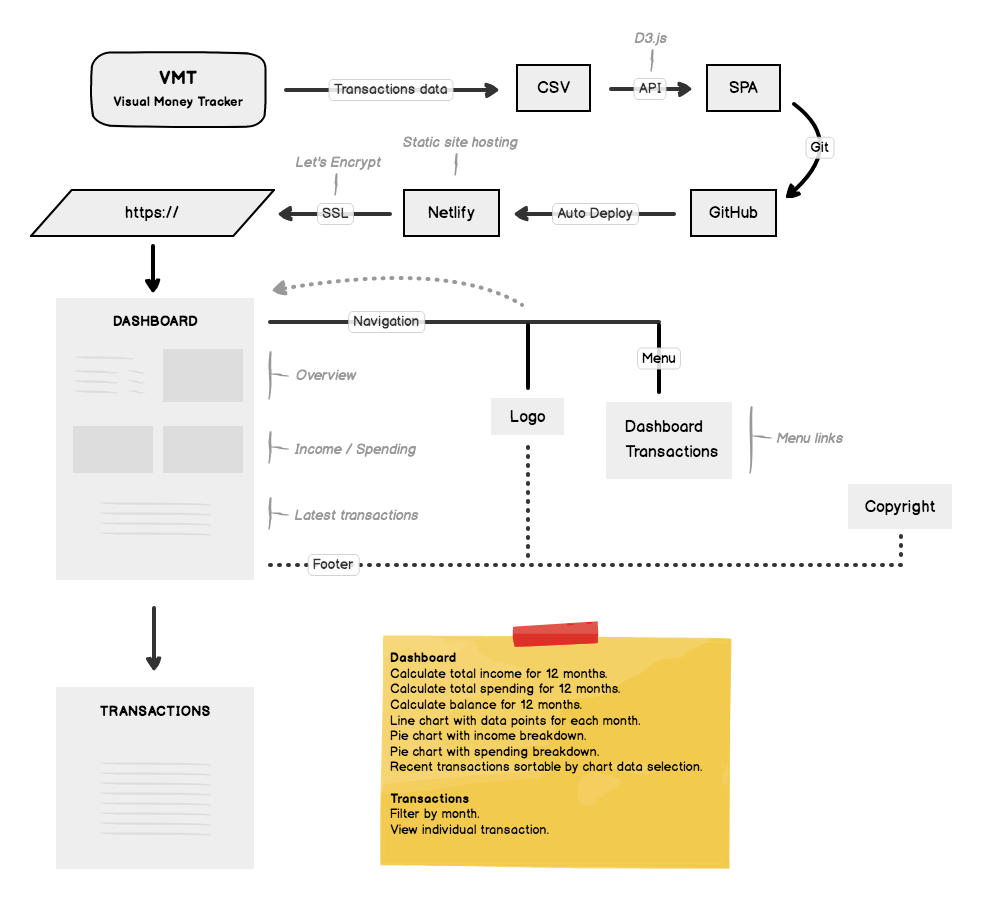
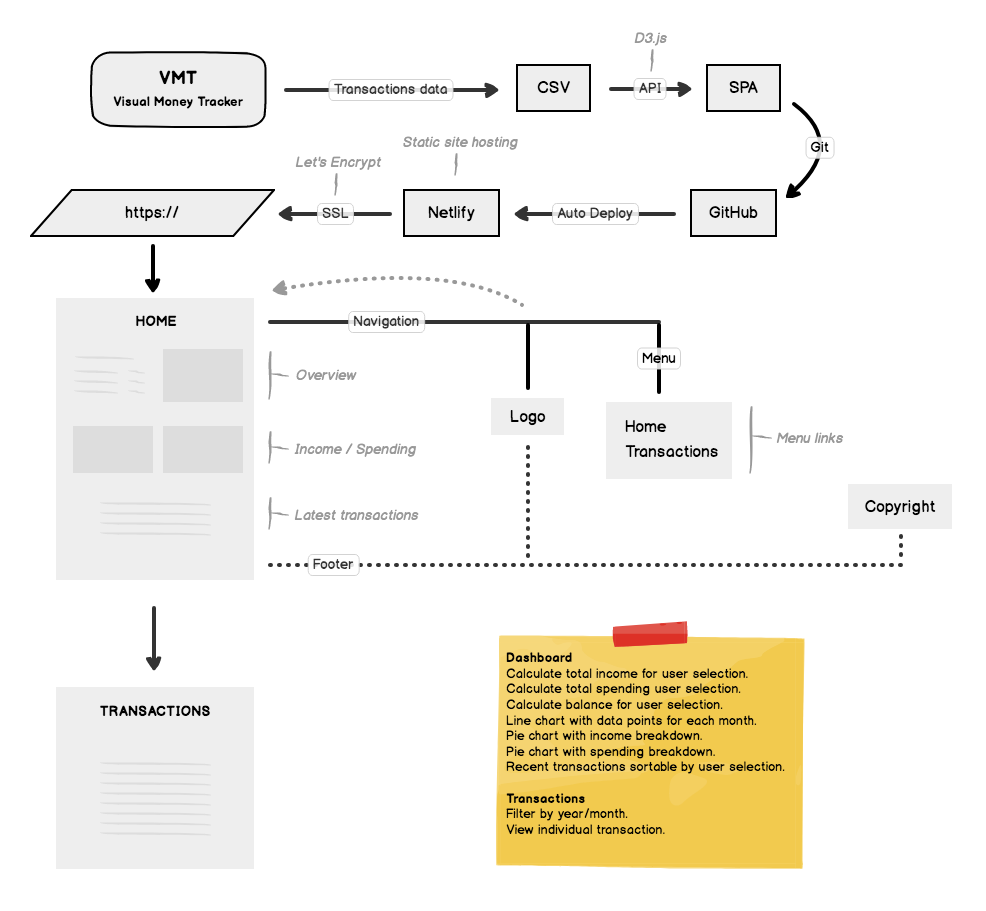
update wireframes with extra user stories

Changed region(s): [[0.3651, 0.6762, 0.8215, 0.9528], [0.1217, 0.3381, 0.213, 0.3688], [0.6389, 0.461, 0.6998, 0.4918]]

diff --git a/README.md b/README.md
@@ -27,7 +27,7 @@ To learn more about the needs of the user, please read the [Project Brief](ux/Pr
 
 **_(1) - "As a user, I want to navigate around the app, so that, I can access the sections I need."_**
 
-- As a user, I want to navigate to main page, so that, I can see the dashboard.
+- As a user, I want to navigate to main page, so that, I can see the home page.
   - [x] Add logo with hyperlink to home page.
   - [x] Add menu hyperlink to home page.
 - As a user, I want to navigate to transactions page, so that, I can see the list of transactions.
@@ -49,8 +49,8 @@ To learn more about the needs of the user, please read the [Project Brief](ux/Pr
   - [x] Output value in Euros.
 - As a user, I want to see my balance, so that, I can see how much I have.
   - [x] Add item name.
-  - [ ] Calculate 12 months balance and output value in euros.
-  - [ ] Output value in Euros.
+  - [x] Calculate 12 months balance and output value in euros.
+  - [x] Output value in Euros.
 
 ---
 
@@ -66,10 +66,10 @@ To learn more about the needs of the user, please read the [Project Brief](ux/Pr
   - [x] Calculate monthly total.
   - [x] Display a line chart with data points for each month.
   - [x] Make the line red.
-- ~~As a user, I want to see my balance visually, so that, I know how my balance changed over the year.~~
-  - [ ] ~~Calculate monthly total.~~
-  - [ ] ~~Display a line chart with data points for each month.~~
-  - [ ] ~~Make the line blue.~~
+- As a user, I want to see my balance visually, so that, I know how my balance changed over the year.
+  - [x] Calculate monthly total.
+  - [x] Display a line chart with data points for each month.
+  - [x] Make the line blue.
 - As a user, I want choose what data to display, so that, I can personalise my experience.
   - [x] Create a chart data selector.
 
@@ -129,6 +129,23 @@ _Feature Request!_
 
 ---
 
+**_(9) - "As a user, I want to select individual months, so that, I can view transactions for selected months."_**
+
+- As a user, I want to select individual months, so that, I can view transactions for selected months.
+  - [x] All months visible.
+  - [x] Multiple selection.
+  - [x] Filter data for the selection
+
+---
+
+**_(10) - "As a user, I want to select individual years, so that, I can view transactions for selected years."_**
+
+- As a user, I want to select individual years, so that, I can view transactions for selected years.
+  - [x] Menu with year selection.
+  - [x] Filter data for the selection
+
+---
+
 
 ## Features
 
@@ -155,9 +172,9 @@ _The Mindmap_
 
 #### Wireframes
 
-_Dashboard view_
+_Home view_
 
-![alt text](ux/Wireframes/Dashboard.png)
+![alt text](ux/Wireframes/Home.png)
 
 _Transactions view_
 
